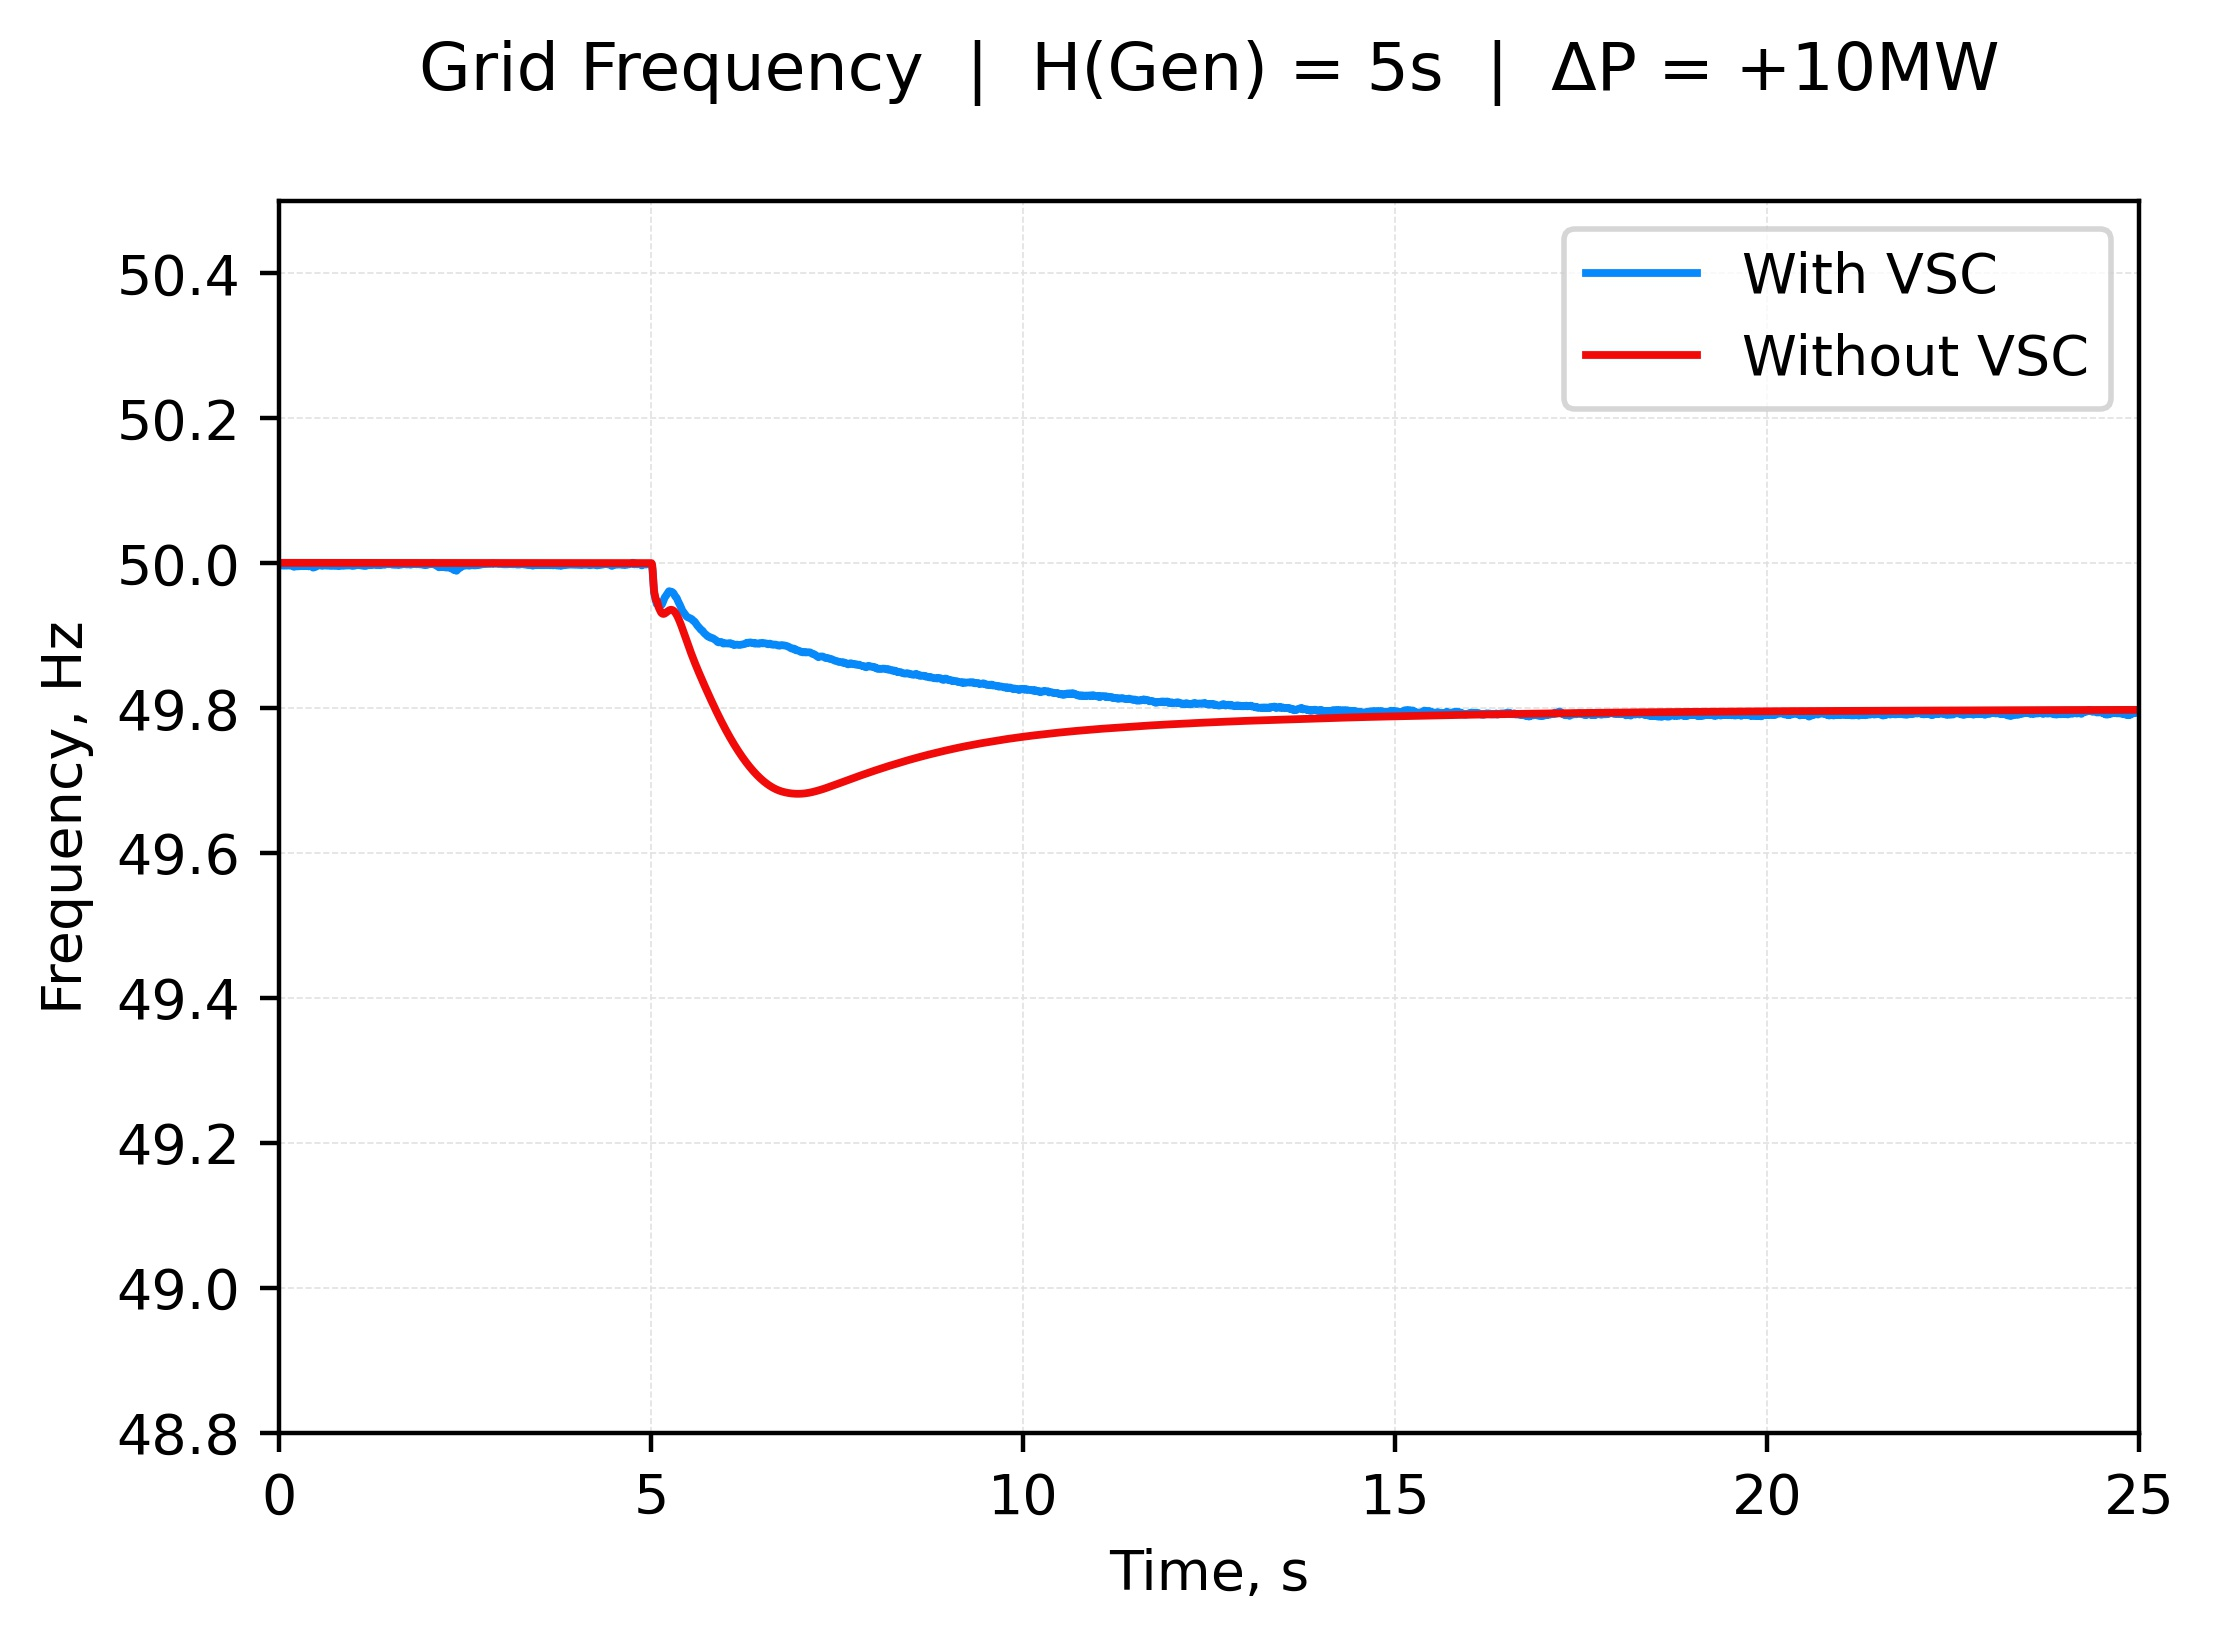
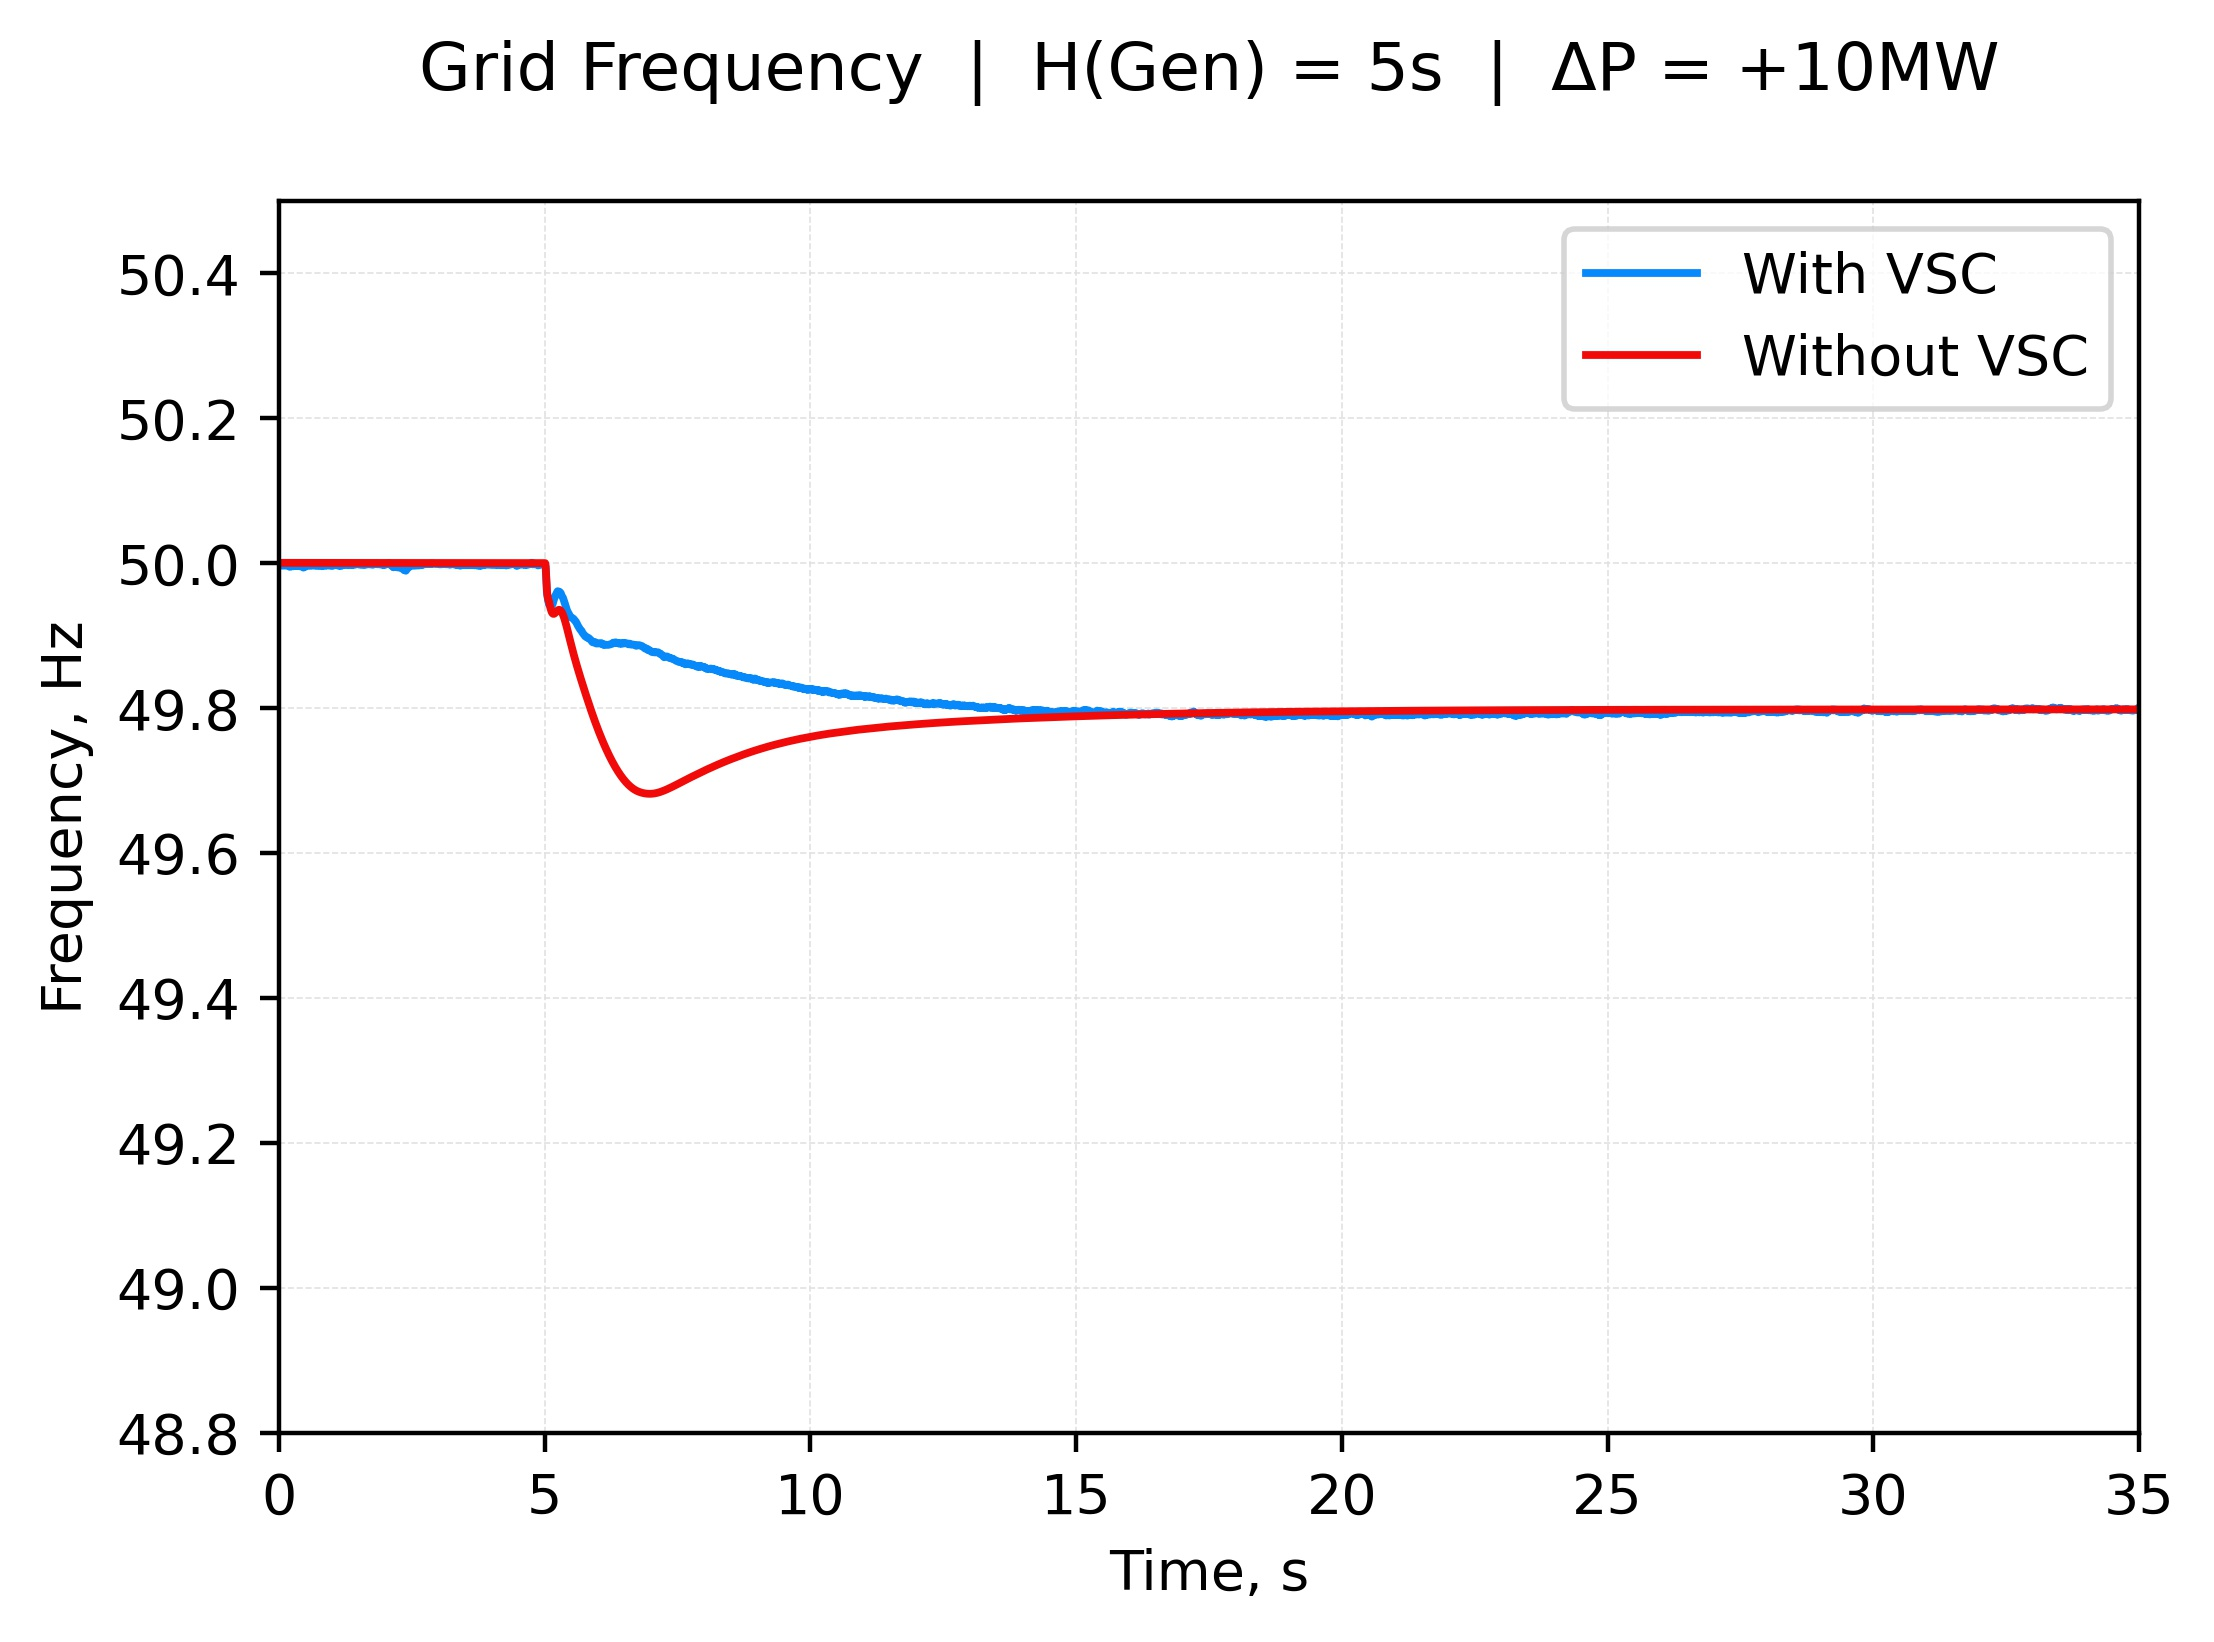
study 6 done + minor updates

diff --git a/6-droop-frequency.py b/6-droop-frequency.py
@@ -1,7 +1,7 @@
 import functions as f
 import matplotlib.pyplot as plt
 
-# Program used to plot the inertial study generator power output data
+# Program used to plot the droop study frequency data
 
 scenarios = ['5MW', '10MW', '15MW']
 inertia = ['5s', '2.5s']
@@ -9,9 +9,9 @@ colors = ['#0789FA', '#F10A0A']
 
 for h in inertia:
     for scenario in scenarios:
-        file = f'power-gen {scenario} {h}.mat'
+        file = f'frequency {scenario} {h}.mat'
 
-        dsInt = f.importData(file, 'data/v2-data/5-inertial-study', single=True)
+        dsInt = f.importData(file, 'data/v2-data/6-droop-study', single=True)
         dsBase = f.importData(file, 'data/v2-data/2-baseline-study', single=True)
 
         plt.figure(figsize=(6, 4), dpi=400)
@@ -20,10 +20,10 @@ for h in inertia:
         plt.plot(dsBase[file]['Time'], dsBase[file]['Value'], color=colors[1], linewidth=1.4, label=f'Without VSC')
 
         plt.grid(linewidth=0.3, linestyle='--', color='#E1E1E1')
-        plt.title(f'Generator Power Output  |  H(Gen) = {h}  |  \u0394P = +{scenario}', pad=20)
+        plt.title(f'Grid Frequency  |  H(Gen) = {h}  |  \u0394P = +{scenario}', pad=20)
         plt.xlabel('Time, s')
-        plt.ylabel('Power, MW')
+        plt.ylabel('Frequency, Hz')
         plt.xlim([0, 35])
-        plt.ylim([48, 75])
-        plt.legend(loc='lower right')
-        plt.savefig(f'plots/v2-plots/5-inertial-power-gen-{h}-{scenario}.jpg', dpi=400, bbox_inches='tight')
+        plt.ylim([48.8, 50.5])
+        plt.legend(loc='upper right')
+        plt.savefig(f'plots/v2-plots/6-droop-frequency-{h}-{scenario}.jpg', dpi=400, bbox_inches='tight')

diff --git a/6-droop-rocof.py b/6-droop-rocof.py
@@ -1,7 +1,7 @@
 import functions as f
 import matplotlib.pyplot as plt
 
-# Program used to plot the inertial study generator power output data
+# Program used to plot the droop study rocof data
 
 scenarios = ['5MW', '10MW', '15MW']
 inertia = ['5s', '2.5s']
@@ -9,9 +9,9 @@ colors = ['#0789FA', '#F10A0A']
 
 for h in inertia:
     for scenario in scenarios:
-        file = f'power-gen {scenario} {h}.mat'
+        file = f'rocof {scenario} {h}.mat'
 
-        dsInt = f.importData(file, 'data/v2-data/5-inertial-study', single=True)
+        dsInt = f.importData(file, 'data/v2-data/6-droop-study', single=True)
         dsBase = f.importData(file, 'data/v2-data/2-baseline-study', single=True)
 
         plt.figure(figsize=(6, 4), dpi=400)
@@ -20,10 +20,10 @@ for h in inertia:
         plt.plot(dsBase[file]['Time'], dsBase[file]['Value'], color=colors[1], linewidth=1.4, label=f'Without VSC')
 
         plt.grid(linewidth=0.3, linestyle='--', color='#E1E1E1')
-        plt.title(f'Generator Power Output  |  H(Gen) = {h}  |  \u0394P = +{scenario}', pad=20)
+        plt.title(f'Grid RoCoF  |  H(Gen) = {h}  |  \u0394P = +{scenario}', pad=20)
         plt.xlabel('Time, s')
-        plt.ylabel('Power, MW')
+        plt.ylabel('RoCoF, Hz/s')
         plt.xlim([0, 35])
-        plt.ylim([48, 75])
-        plt.legend(loc='lower right')
-        plt.savefig(f'plots/v2-plots/5-inertial-power-gen-{h}-{scenario}.jpg', dpi=400, bbox_inches='tight')
+        plt.ylim([-0.55, 0.55])
+        plt.legend(loc='upper right')
+        plt.savefig(f'plots/v2-plots/6-droop-rocof-{h}-{scenario}.jpg', dpi=400, bbox_inches='tight')

diff --git a/6-droop-power-gen.py b/6-droop-power-gen.py
@@ -1,7 +1,7 @@
 import functions as f
 import matplotlib.pyplot as plt
 
-# Program used to plot the inertial study generator power output data
+# Program used to plot the droop study generator power output data
 
 scenarios = ['5MW', '10MW', '15MW']
 inertia = ['5s', '2.5s']
@@ -11,7 +11,7 @@ for h in inertia:
     for scenario in scenarios:
         file = f'power-gen {scenario} {h}.mat'
 
-        dsInt = f.importData(file, 'data/v2-data/5-inertial-study', single=True)
+        dsInt = f.importData(file, 'data/v2-data/6-droop-study', single=True)
         dsBase = f.importData(file, 'data/v2-data/2-baseline-study', single=True)
 
         plt.figure(figsize=(6, 4), dpi=400)
@@ -26,4 +26,4 @@ for h in inertia:
         plt.xlim([0, 35])
         plt.ylim([48, 75])
         plt.legend(loc='lower right')
-        plt.savefig(f'plots/v2-plots/5-inertial-power-gen-{h}-{scenario}.jpg', dpi=400, bbox_inches='tight')
+        plt.savefig(f'plots/v2-plots/6-droop-power-gen-{h}-{scenario}.jpg', dpi=400, bbox_inches='tight')

diff --git a/6-droop-power-vsc.py b/6-droop-power-vsc.py
@@ -1,7 +1,7 @@
 import functions as f
 import matplotlib.pyplot as plt
 
-# Program used to plot the inertial study VSC power output data
+# Program used to plot the droop study VSC power output data
 
 scenarios = ['5MW', '10MW', '15MW']
 inertia = ['5s', '2.5s']
@@ -10,7 +10,7 @@ colors = ['#0789FA', '#7C4A82', '#F10A0A']
 for h in inertia:
     files = [f'power-vsc {scenario} {h}.mat' for scenario in scenarios]
 
-    ds = f.importData(files, 'data/v2-data/5-inertial-study')
+    ds = f.importData(files, 'data/v2-data/6-droop-study')
 
     plt.figure(figsize=(6, 4), dpi=400)
 
@@ -24,6 +24,6 @@ for h in inertia:
     plt.xlabel('Time, s')
     plt.ylabel('Power, MW')
     plt.xlim([0, 35])
-    plt.ylim([-2, 15])
+    plt.ylim([-2, 20])
     plt.legend(loc='upper right')
-    plt.savefig(f'plots/v2-plots/5-inertial-power-vsc-{h}.jpg', dpi=400, bbox_inches='tight')
+    plt.savefig(f'plots/v2-plots/6-droop-power-vsc-{h}.jpg', dpi=400, bbox_inches='tight')

diff --git a/5-inertial-frequency.py b/5-inertial-frequency.py
@@ -23,7 +23,7 @@ for h in inertia:
         plt.title(f'Grid Frequency  |  H(Gen) = {h}  |  \u0394P = +{scenario}', pad=20)
         plt.xlabel('Time, s')
         plt.ylabel('Frequency, Hz')
-        plt.xlim([0, 25])
+        plt.xlim([0, 35])
         plt.ylim([48.8, 50.5])
         plt.legend(loc='upper right')
         plt.savefig(f'plots/v2-plots/5-inertial-frequency-{h}-{scenario}.jpg', dpi=400, bbox_inches='tight')

diff --git a/5-inertial-rocof.py b/5-inertial-rocof.py
@@ -23,7 +23,7 @@ for h in inertia:
         plt.title(f'Grid RoCoF  |  H(Gen) = {h}  |  \u0394P = +{scenario}', pad=20)
         plt.xlabel('Time, s')
         plt.ylabel('RoCoF, Hz/s')
-        plt.xlim([0, 25])
+        plt.xlim([0, 35])
         plt.ylim([-0.55, 0.55])
         plt.legend(loc='upper right')
         plt.savefig(f'plots/v2-plots/5-inertial-rocof-{h}-{scenario}.jpg', dpi=400, bbox_inches='tight')
